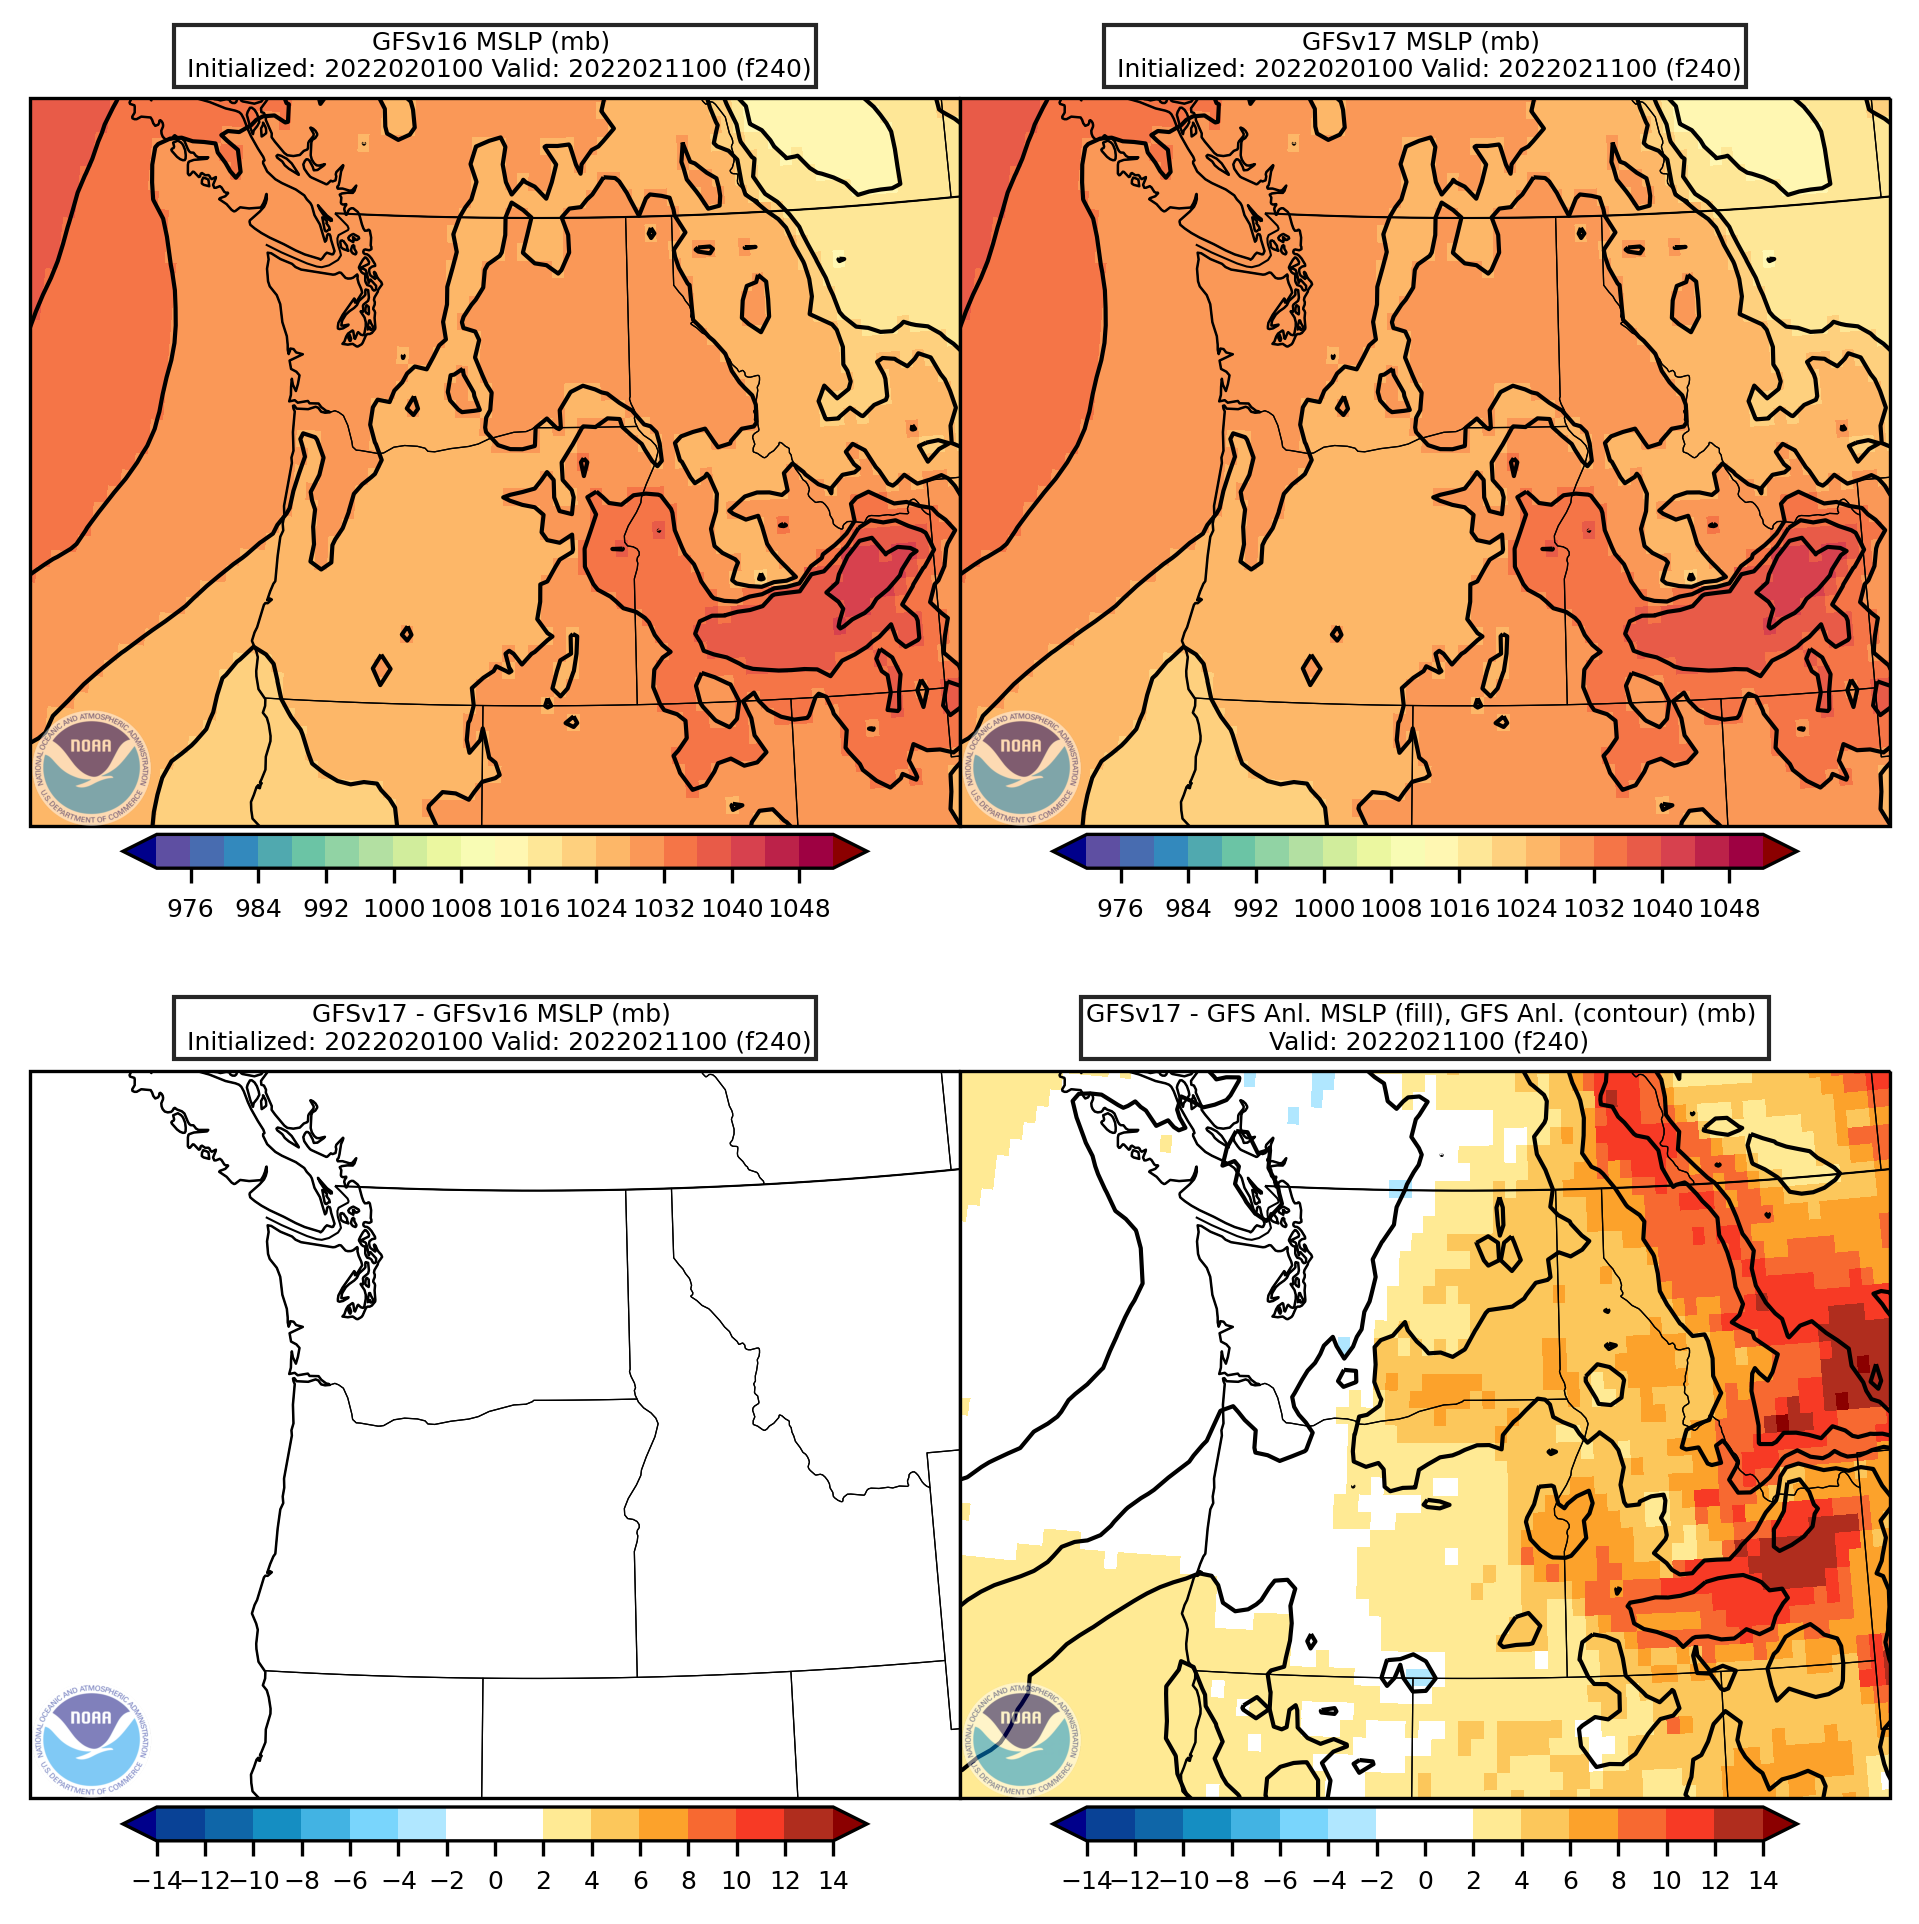
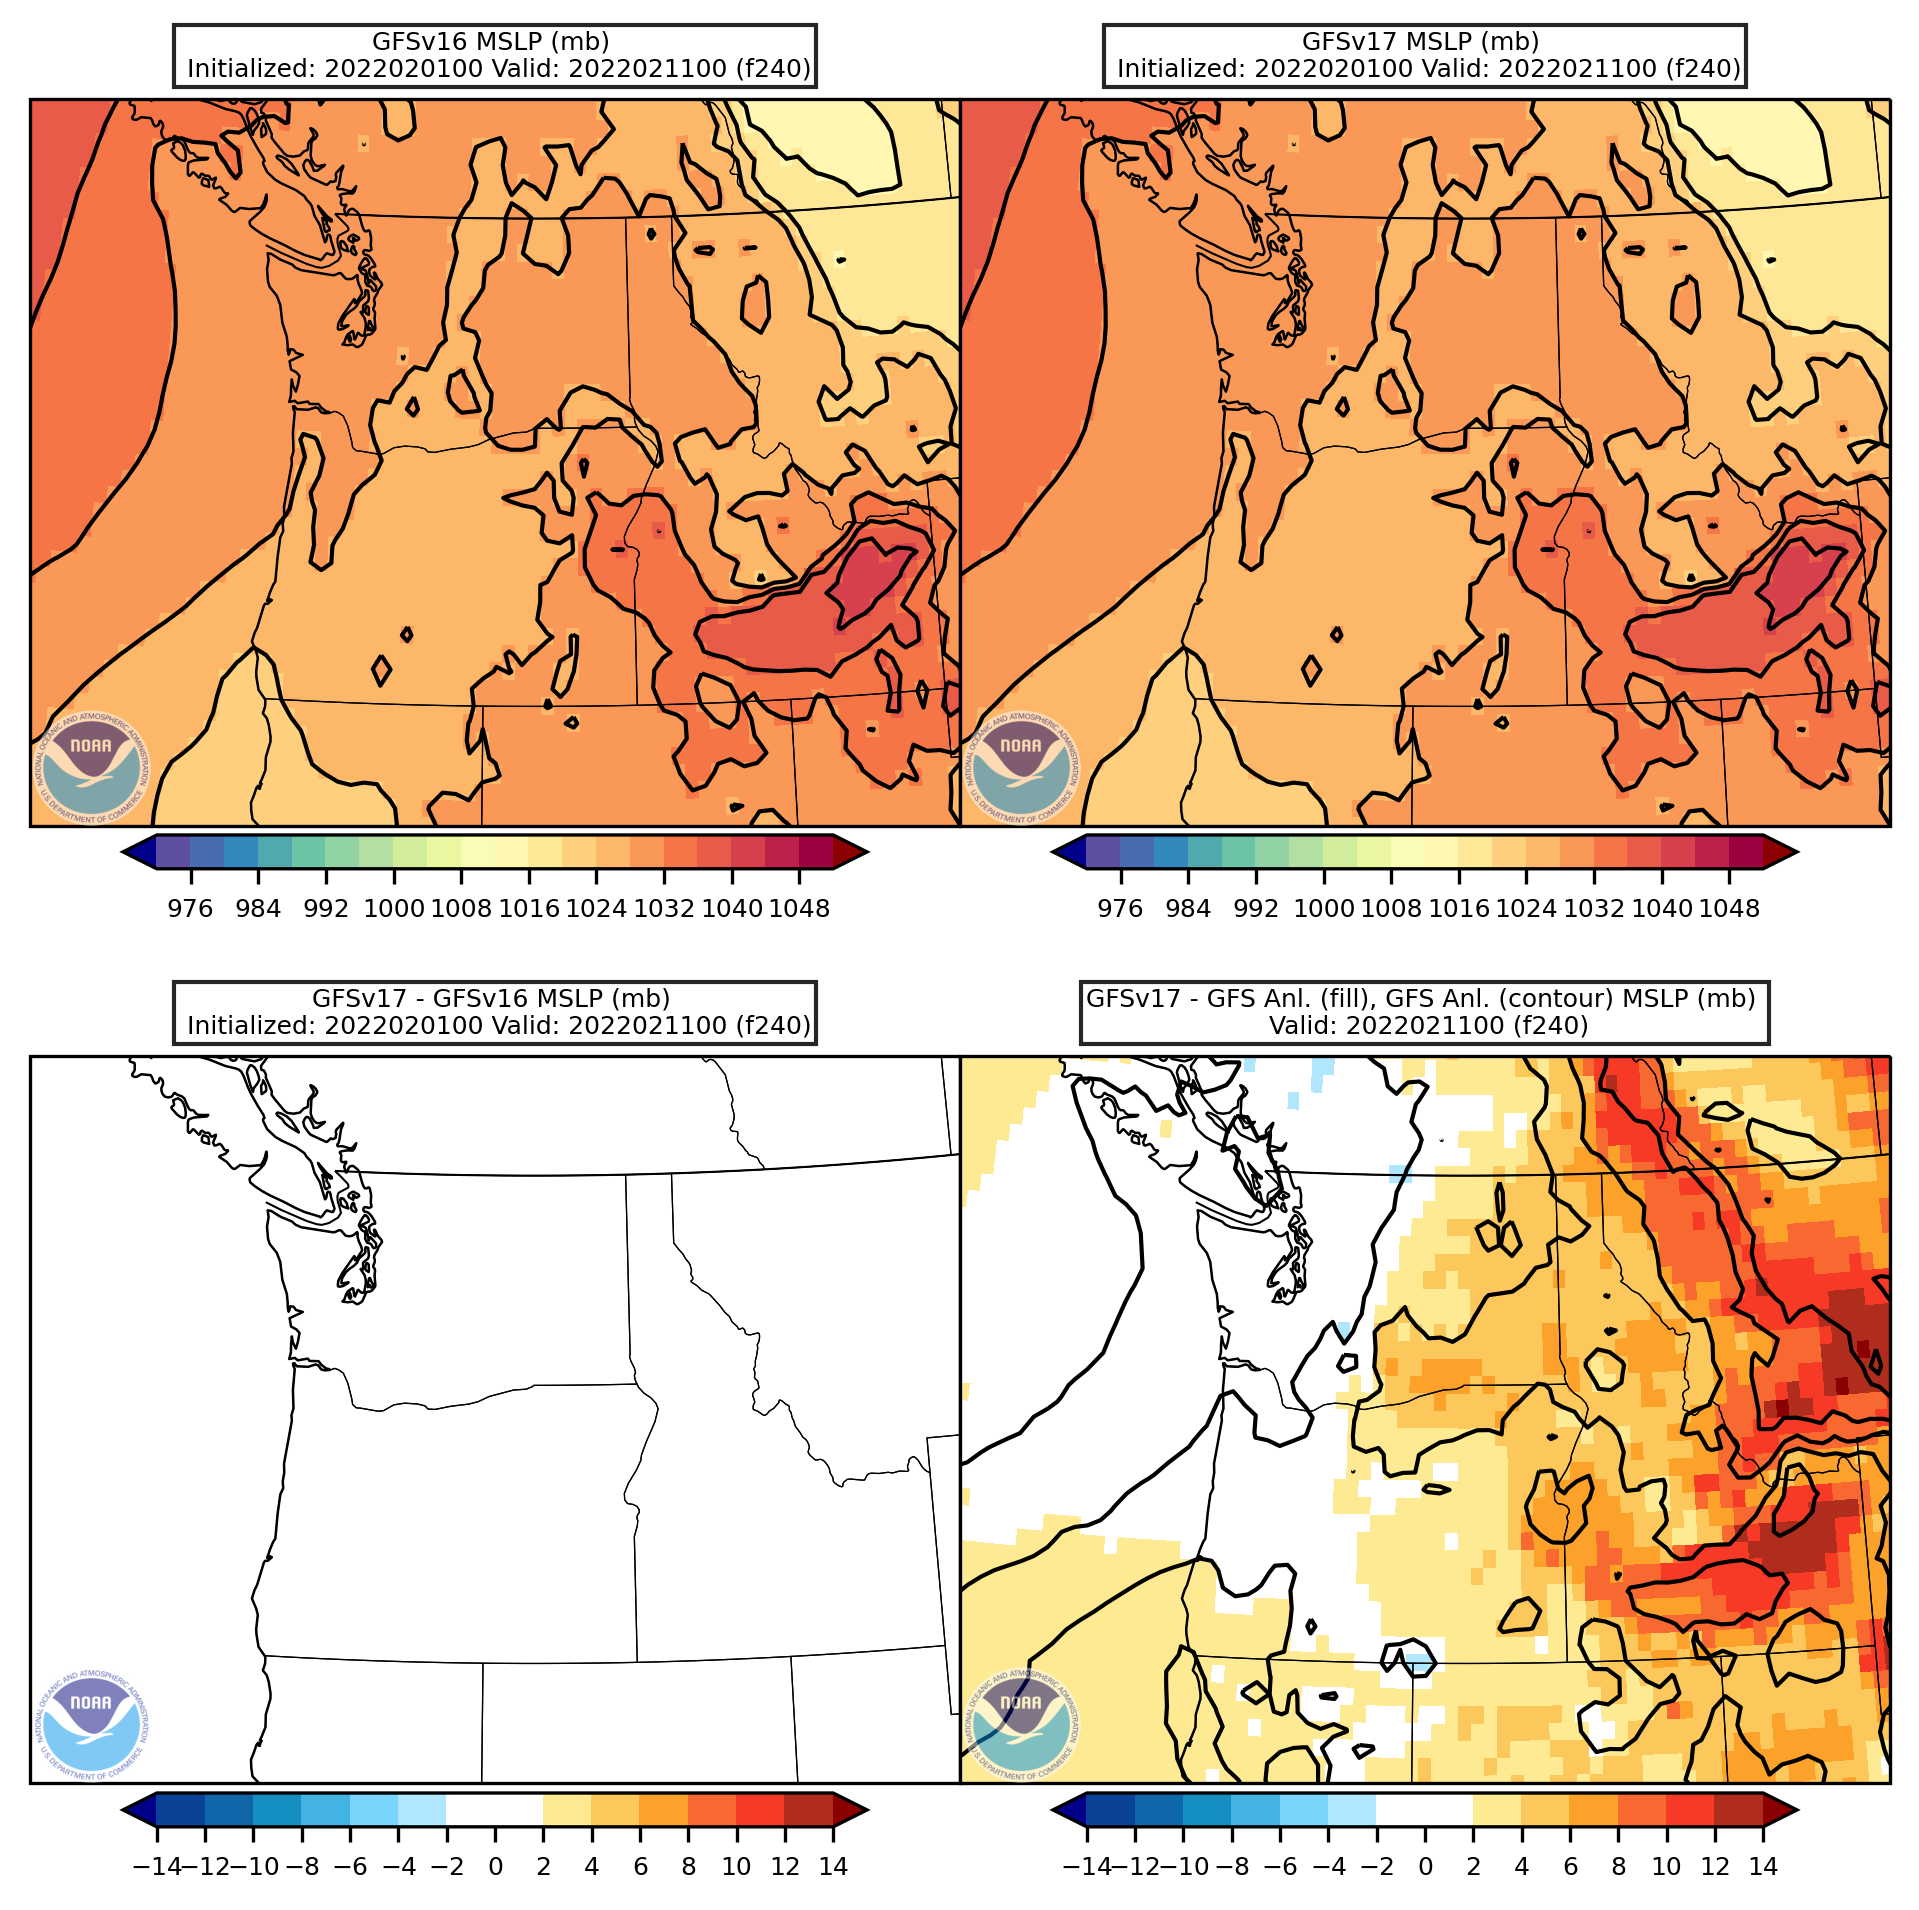
Updated domains so that panels are closer together, added northamerica

diff --git a/plot_maps/plot_gfs_slp_4panel.py b/plot_maps/plot_gfs_slp_4panel.py
@@ -313,7 +313,7 @@ def create_figure():
     yextent=-840000
   elif dom == 'northeast':
     llcrnrlon = -81.0
-    llcrnrlat = 39.5
+    llcrnrlat = 39.497
     urcrnrlon = -66.5
     urcrnrlat = 48.0
     cen_lat = 44.0
@@ -342,7 +342,7 @@ def create_figure():
     llcrnrlon = -95.75
     llcrnrlat = 33.6
     urcrnrlon = -81.75
-    urcrnrlat = 42.775
+    urcrnrlat = 42.779
     cen_lat = 37.0
     cen_lon = -89.0
     xextent=-455000
@@ -367,13 +367,13 @@ def create_figure():
     yextent=-287000
   elif dom == 'centralplains':
     llcrnrlon = -108.25
-    llcrnrlat = 34.498
+    llcrnrlat = 34.490
     urcrnrlon = -92.75
     urcrnrlat = 44.5
     cen_lat = 38.0
     cen_lon = -100.0
     xextent=-567500
-    yextent=-184000
+    yextent=-185000
   elif dom == 'northernplains':
     llcrnrlon = -111.0
     llcrnrlat = 40.425
@@ -387,7 +387,7 @@ def create_figure():
     llcrnrlon = -128.5
     llcrnrlat = 40.0
     urcrnrlon = -111.0
-    urcrnrlat = 50.369
+    urcrnrlat = 50.375
     cen_lat = 44.0
     cen_lon = -119.0
     xextent=-610000
@@ -396,11 +396,20 @@ def create_figure():
     llcrnrlon = -127.75
     llcrnrlat = 30.0
     urcrnrlon = -108.95
-    urcrnrlat = 42.55
+    urcrnrlat = 42.559
     cen_lat = 35.0
     cen_lon = -116.0
     xextent=-899000
     yextent=-302000
+  elif dom == 'northamerica':
+    llcrnrlon = -145.0
+    llcrnrlat = 7.0
+    urcrnrlon = -55.0
+    urcrnrlat = 72.0
+    cen_lat = 40.0
+    cen_lon = -100.0
+    xextent=-4139000
+    yextent=-2122000
 
 
 
@@ -426,7 +435,7 @@ def create_figure():
     ax2 = fig.add_subplot(gs[0:9,9:], projection=myproj)
     ax3 = fig.add_subplot(gs[9:,0:9], projection=myproj)
     ax4 = fig.add_subplot(gs[9:,9:], projection=myproj)
-  elif dom == 'northeast':
+  elif dom == 'northamerica':
     fig = plt.figure(figsize=(8,8))
     gs = GridSpec(19,18,wspace=0.0,hspace=0.0)
     extent = [llcrnrlon,urcrnrlon,llcrnrlat,urcrnrlat]
@@ -435,19 +444,30 @@ def create_figure():
             standard_parallels=None,globe=None)
     ax1 = fig.add_subplot(gs[0:9,0:9], projection=myproj)
     ax2 = fig.add_subplot(gs[0:9,9:], projection=myproj)
-    ax3 = fig.add_subplot(gs[10:,0:9], projection=myproj)
-    ax4 = fig.add_subplot(gs[10:,9:], projection=myproj)
+    ax3 = fig.add_subplot(gs[4:,0:9], projection=myproj)
+    ax4 = fig.add_subplot(gs[4:,9:], projection=myproj)
   else:
     fig = plt.figure(figsize=(8,8))
     gs = GridSpec(19,18,wspace=0.0,hspace=0.0)
     extent = [llcrnrlon,urcrnrlon,llcrnrlat,urcrnrlat]
     myproj=ccrs.LambertConformal(central_longitude=cen_lon, central_latitude=cen_lat,
-          false_easting=0.0,false_northing=0.0, secant_latitudes=None, 
-          standard_parallels=None,globe=None)
+            false_easting=0.0,false_northing=0.0, secant_latitudes=None,
+            standard_parallels=None,globe=None)
     ax1 = fig.add_subplot(gs[0:9,0:9], projection=myproj)
     ax2 = fig.add_subplot(gs[0:9,9:], projection=myproj)
-    ax3 = fig.add_subplot(gs[10:,0:9], projection=myproj)
-    ax4 = fig.add_subplot(gs[10:,9:], projection=myproj)
+    ax3 = fig.add_subplot(gs[9:,0:9], projection=myproj)
+    ax4 = fig.add_subplot(gs[9:,9:], projection=myproj)      
+#  else:
+#    fig = plt.figure(figsize=(8,8))
+#    gs = GridSpec(19,18,wspace=0.0,hspace=0.0)
+#    extent = [llcrnrlon,urcrnrlon,llcrnrlat,urcrnrlat]
+#    myproj=ccrs.LambertConformal(central_longitude=cen_lon, central_latitude=cen_lat,
+#          false_easting=0.0,false_northing=0.0, secant_latitudes=None, 
+#          standard_parallels=None,globe=None)
+#    ax1 = fig.add_subplot(gs[0:9,0:9], projection=myproj)
+#    ax2 = fig.add_subplot(gs[0:9,9:], projection=myproj)
+#    ax3 = fig.add_subplot(gs[10:,0:9], projection=myproj)
+#    ax4 = fig.add_subplot(gs[10:,9:], projection=myproj)
 
   ax1.set_extent(extent)
   ax2.set_extent(extent)
@@ -563,11 +583,11 @@ def plot_set_1():
   if dom == 'conus':
     skip = 100
     thick = 0.75
-  elif dom == 'northeast':
+  elif dom == 'northamerica':
     skip = 40
-    thick = 1.0
+    thick = 0.6
   else:
-    skip = 30
+    skip = 40
     thick = 1.0
   barblength = 3.5
 
@@ -626,7 +646,7 @@ def plot_set_1():
   cbar4 = plt.colorbar(cs_4,ax=ax4,orientation='horizontal',pad=0.01,ticks=clevsdif,shrink=0.8,extend='both')
 #  cbar4.set_label(units,fontsize=6)
   cbar4.ax.tick_params(labelsize=6)
-  ax4.text(.5,1.03,'GFSv17 - GFS Anl. MSLP (fill), GFS Anl. (contour) ('+units+') \n Valid: '+vtime + ' (f'+fhour+')',horizontalalignment='center',fontsize=6,transform=ax4.transAxes,bbox=dict(facecolor='white',alpha=0.85,boxstyle='square,pad=0.2'))
+  ax4.text(.5,1.03,'GFSv17 - GFS Anl. (fill), GFS Anl. (contour) MSLP ('+units+') \n Valid: '+vtime + ' (f'+fhour+')',horizontalalignment='center',fontsize=6,transform=ax4.transAxes,bbox=dict(facecolor='white',alpha=0.85,boxstyle='square,pad=0.2'))
   ax4.imshow(im,aspect='equal',alpha=0.5,origin='upper',extent=(xmin,xextent,ymin,yextent),zorder=5)
 
 
